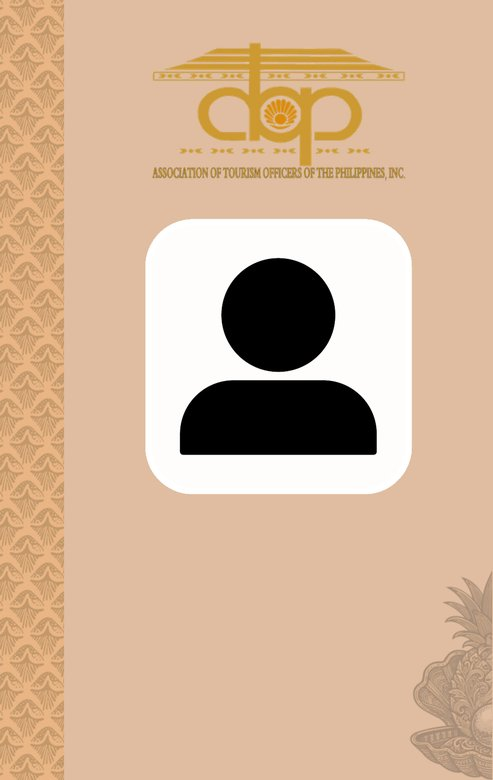
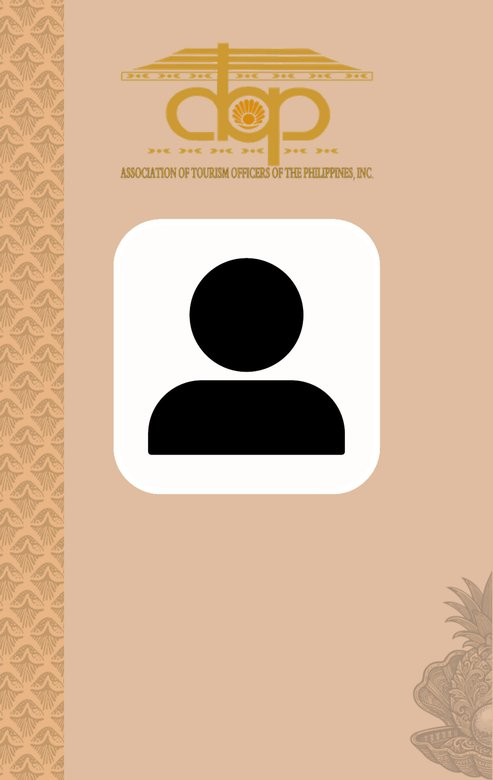
feat(dashboard): ID preview centres on the card; two-line names fit by the wider line

Changed region(s): [[0.213, 0.2769, 0.8519, 0.6462], [0.2434, 0.0308, 0.8215, 0.2462]]

diff --git a/src/dashboard/components/idCard.js b/src/dashboard/components/idCard.js
@@ -17,18 +17,18 @@
 export const CARD = { w: 156, h: 246.75 }
 
 /** The photo well: a rounded rectangle, very slightly taller than it is wide. */
-export const WELL = { x: 45.99, y: 69.26, w: 84.37, h: 87.17, r: 13.65 }
+export const WELL = { x: 35.91, y: 69.26, w: 84.37, h: 87.17, r: 13.65 }
 
 /**
  * The columns the lines are fitted to. The name sits above the pineapple and may use the card's
  * width; the two lines under it sit beside the pineapple and are held narrower.
  */
-export const NAME_COLUMN = 118
+export const NAME_COLUMN = 108
 export const COLUMN = 80
 
-export const NAME = { cx: 88.05, baseline: 181, max: 10.6, minSingle: 8, twoLineMax: 9, min: 6.5 }
-export const CLASSIFICATION = { cx: 88.05, baseline: 192, size: 7.4 }
-export const ID_NO = { cx: 88.05, baseline: 212, size: 9.6 }
+export const NAME = { cx: 78, baseline: 181, max: 10.6, minSingle: 8, twoLineMax: 9, min: 6.5 }
+export const CLASSIFICATION = { cx: 78, baseline: 192, size: 7.4 }
+export const ID_NO = { cx: 78, baseline: 212, size: 9.6 }
 
 /** The renderer steps the size down by this much looking for a fit. */
 const STEP = 0.2
@@ -74,7 +74,7 @@ export function fit(text, max, min, column = COLUMN) {
 
 /**
  * One line while it fits at a legible size; otherwise two, split at the space nearest the middle and
- * capped below the one-line size so they do not crowd the logo above. A name too long even at the
+ * capped below the one-line size so they do not crowd the photo above. A name too long even at the
  * smallest size overflows the column rather than splitting further — which is what the renderer
  * does, and seeing it overflow is the point.
  */
@@ -86,8 +86,11 @@ export function layoutName(name) {
   }
 
   const [first, second] = splitNearMiddle(name)
-  const longer = first.length >= second.length ? first : second
-  return { lines: [first, second].filter(Boolean), size: fit(longer, NAME.twoLineMax, NAME.min, NAME_COLUMN) }
+  // Sized by the wider line, not the one with more letters — as the renderer does.
+  const size = Math.min(
+    fit(first, NAME.twoLineMax, NAME.min, NAME_COLUMN),
+    fit(second, NAME.twoLineMax, NAME.min, NAME_COLUMN))
+  return { lines: [first, second].filter(Boolean), size }
 }
 
 function splitNearMiddle(text) {
